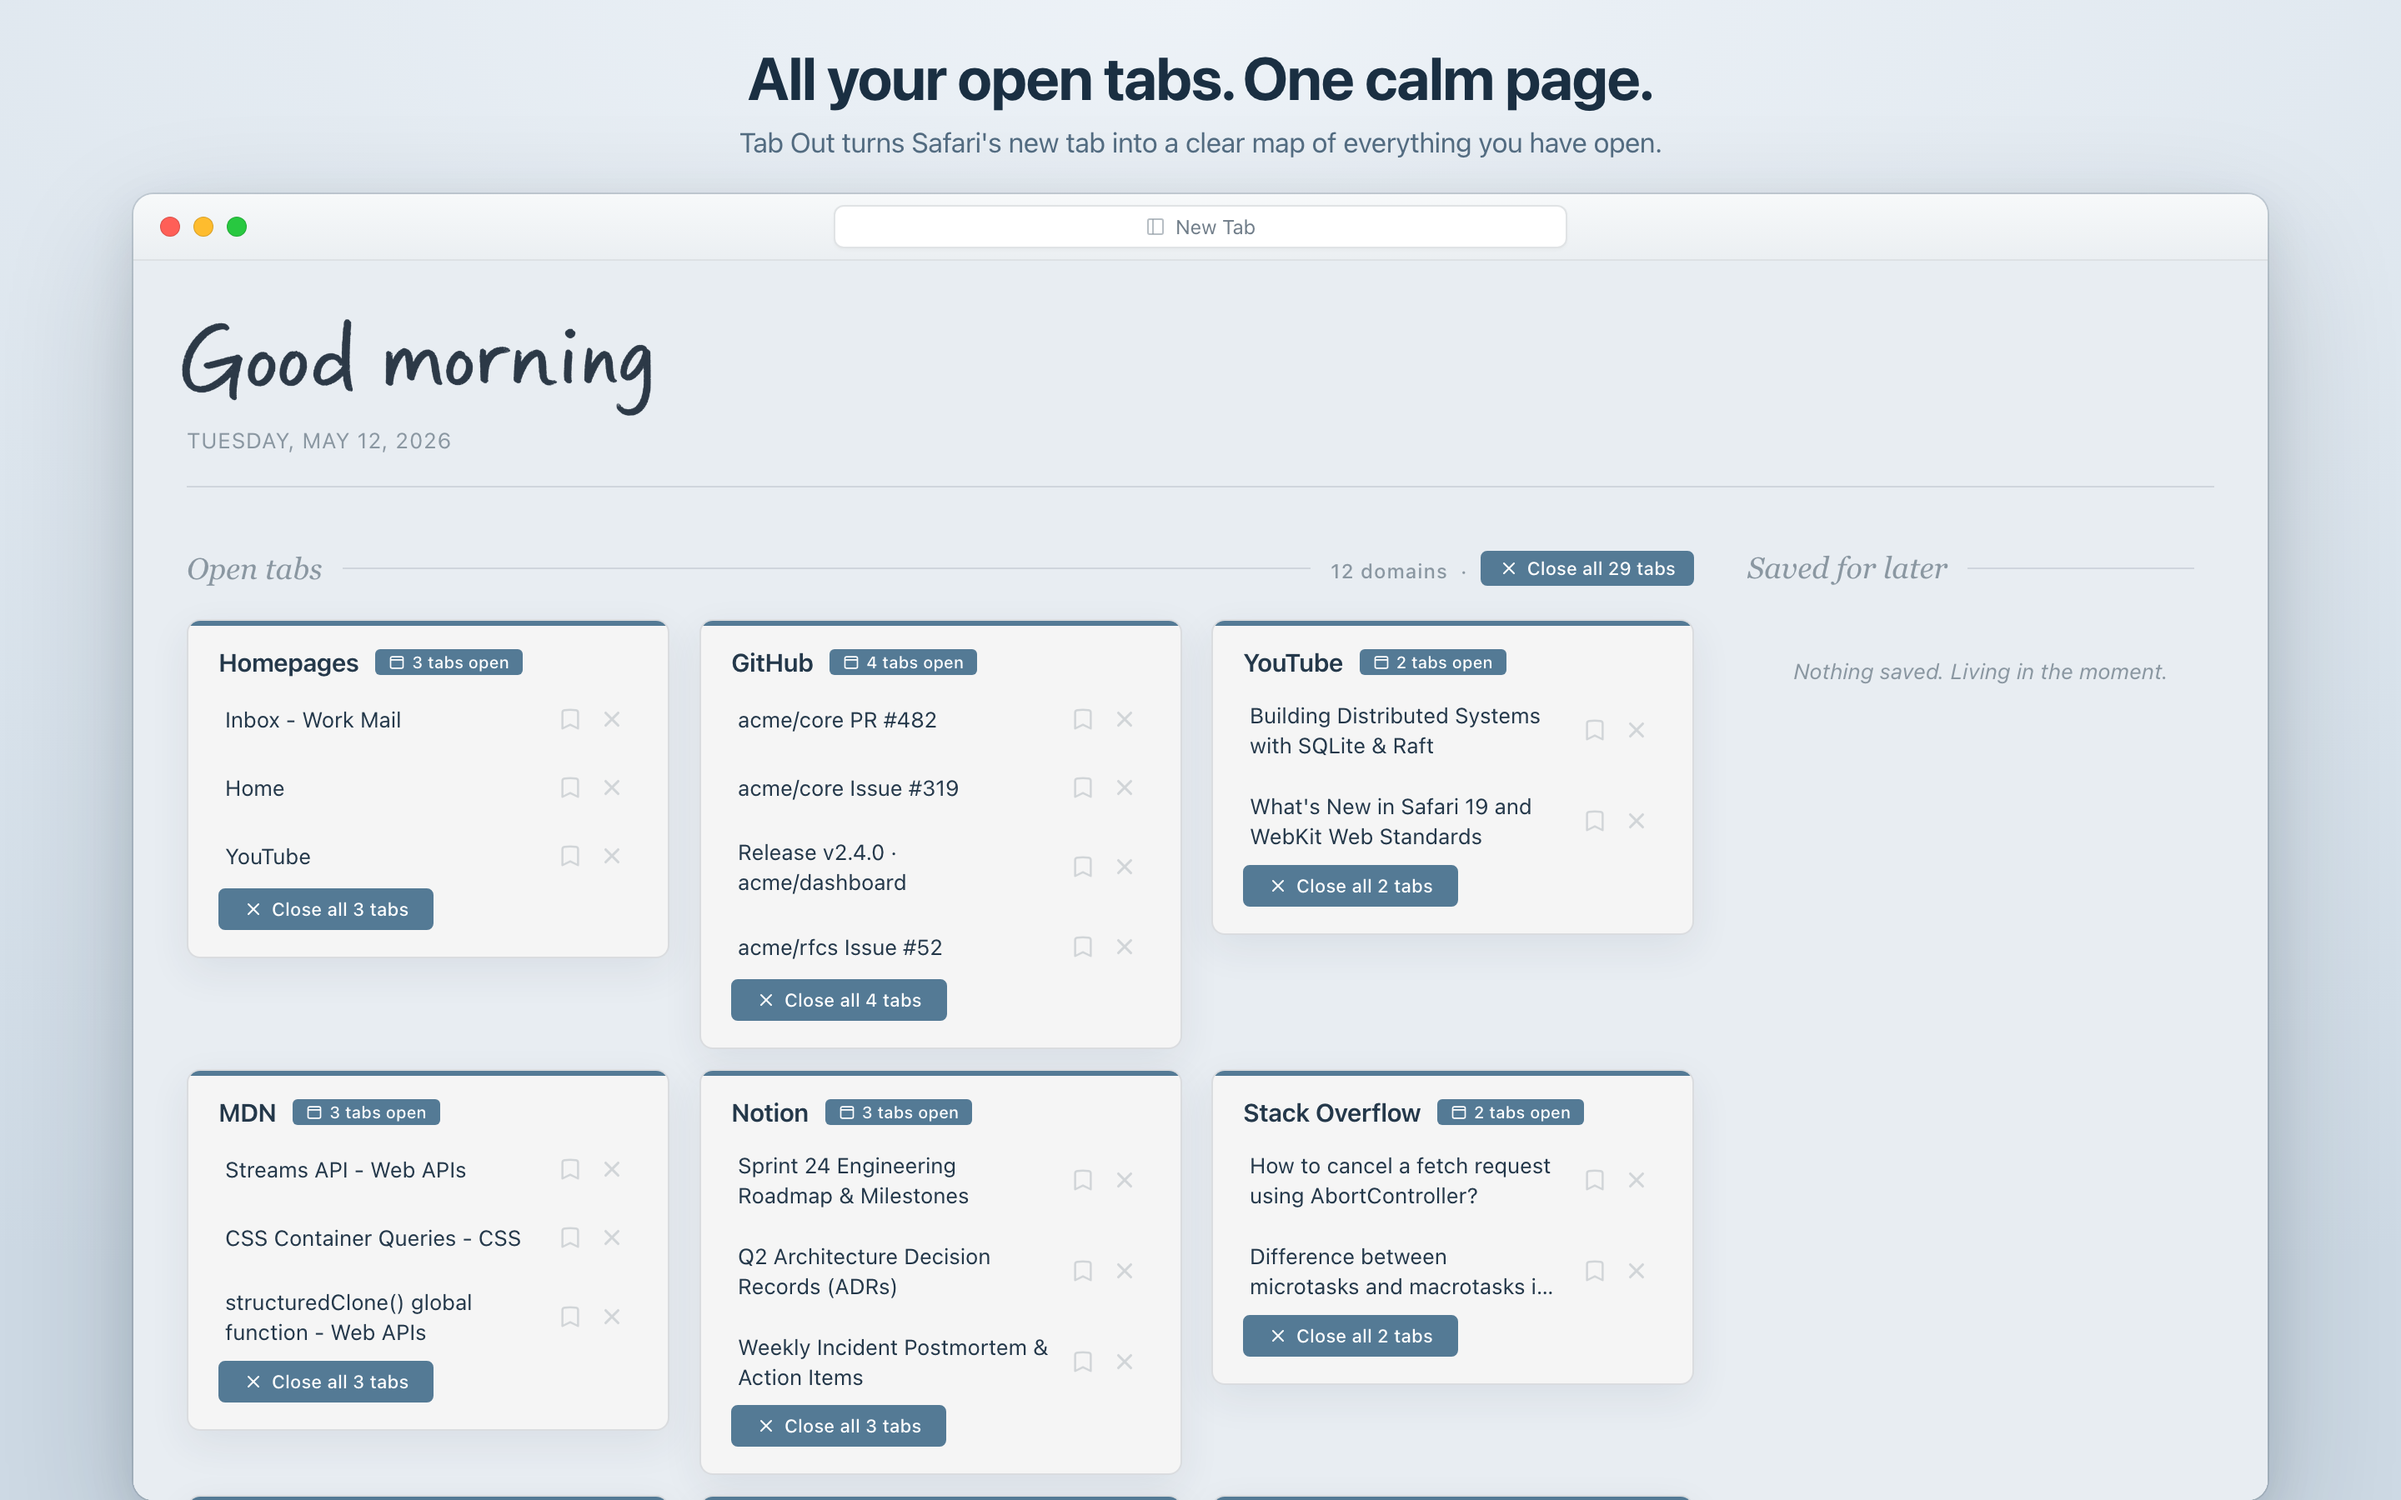
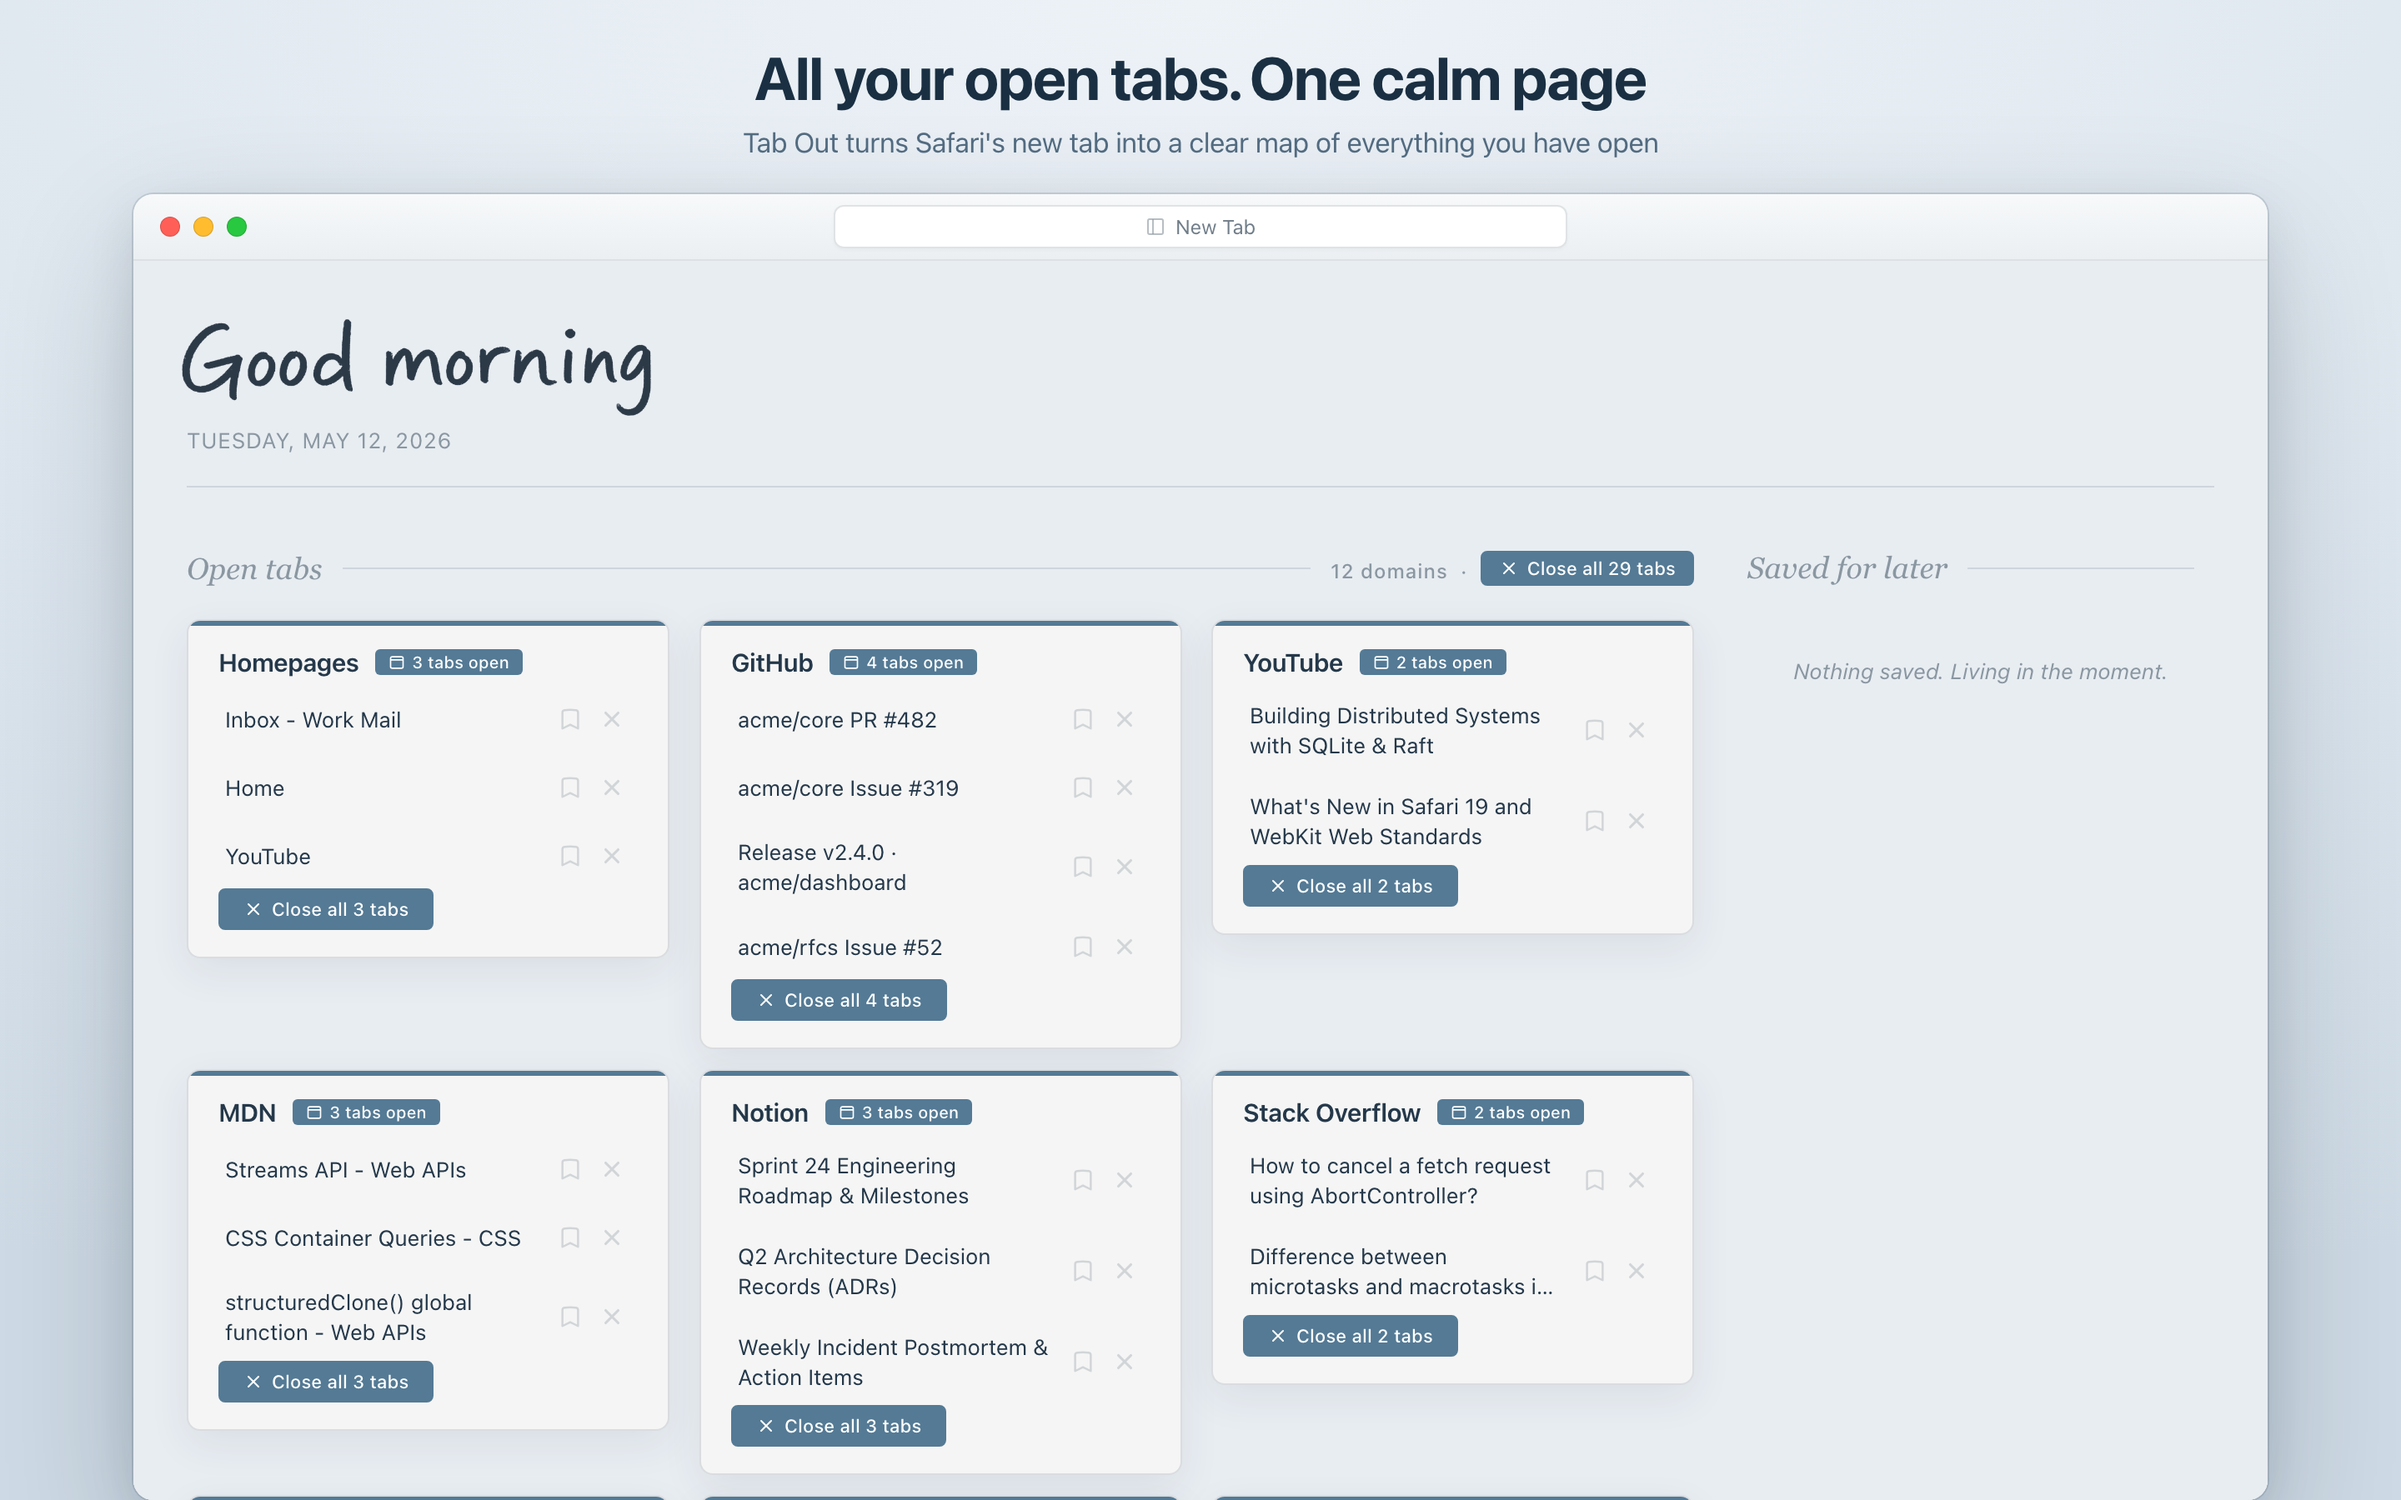
Drop trailing periods from screenshot captions

Changed region(s): [[0.3125, 0.0311, 0.6875, 0.1244]]

diff --git a/appstore/screenshots/compose.html b/appstore/screenshots/compose.html
@@ -199,24 +199,24 @@
   <script>
     const SHOTS = {
       '01-hero': {
-        headline: 'All your open tabs. One calm page.',
-        subhead: "Tab Out turns Safari's new tab into a clear map of everything you have open.",
+        headline: 'All your open tabs. One calm page',
+        subhead: "Tab Out turns Safari's new tab into a clear map of everything you have open",
       },
       '02-grouped': {
         headline: 'Grouped by site, automatically',
-        subhead: 'Every tab sorted into a card per domain, so you find any page in a second.',
+        subhead: 'Every tab sorted into a card per domain, so you find any page in a second',
       },
       '03-duplicates': {
-        headline: 'Spot duplicates. Close them in one click.',
-        subhead: 'Same page open twice? Tab Out flags it and keeps just one.',
+        headline: 'Spot duplicates. Close them in one click',
+        subhead: 'Same page open twice? Tab Out flags it and keeps just one',
       },
       '04-saved': {
         headline: 'Save for later, close without guilt',
-        subhead: 'Park a tab on your reading list, then clear the clutter.',
+        subhead: 'Park a tab on your reading list, then clear the clutter',
       },
       '05-private': {
-        headline: '100% local. No account. No tracking.',
-        subhead: 'Your tabs never leave your Mac. Free and open source.',
+        headline: '100% local. No account. No tracking',
+        subhead: 'Your tabs never leave your Mac. Free and open source',
       },
     };
 
